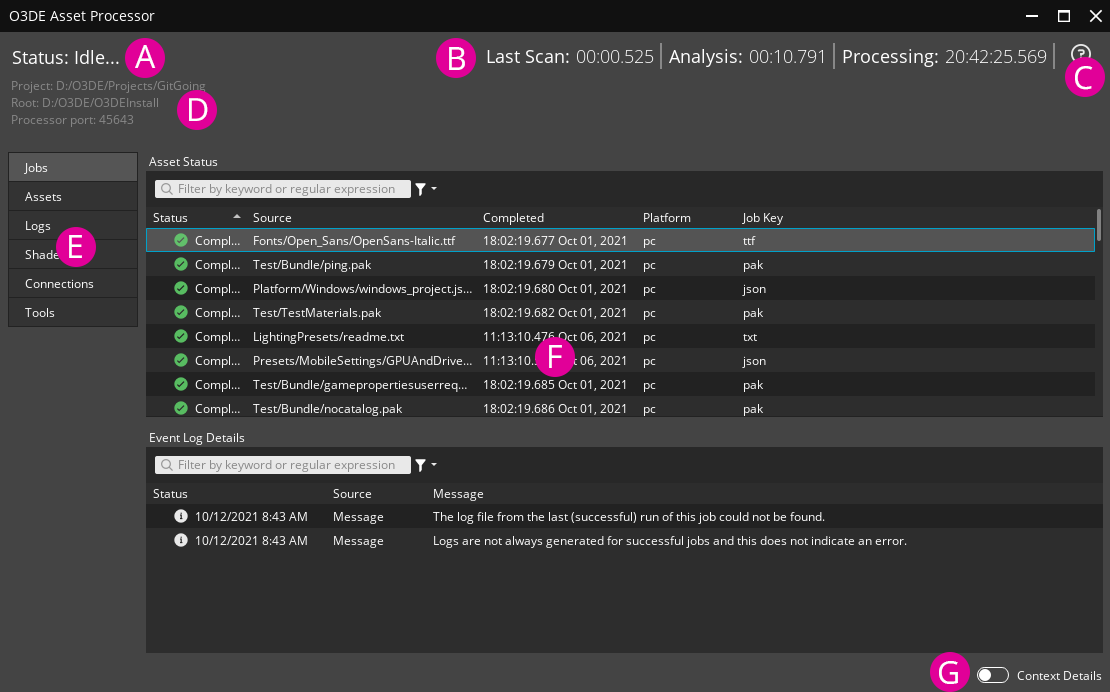
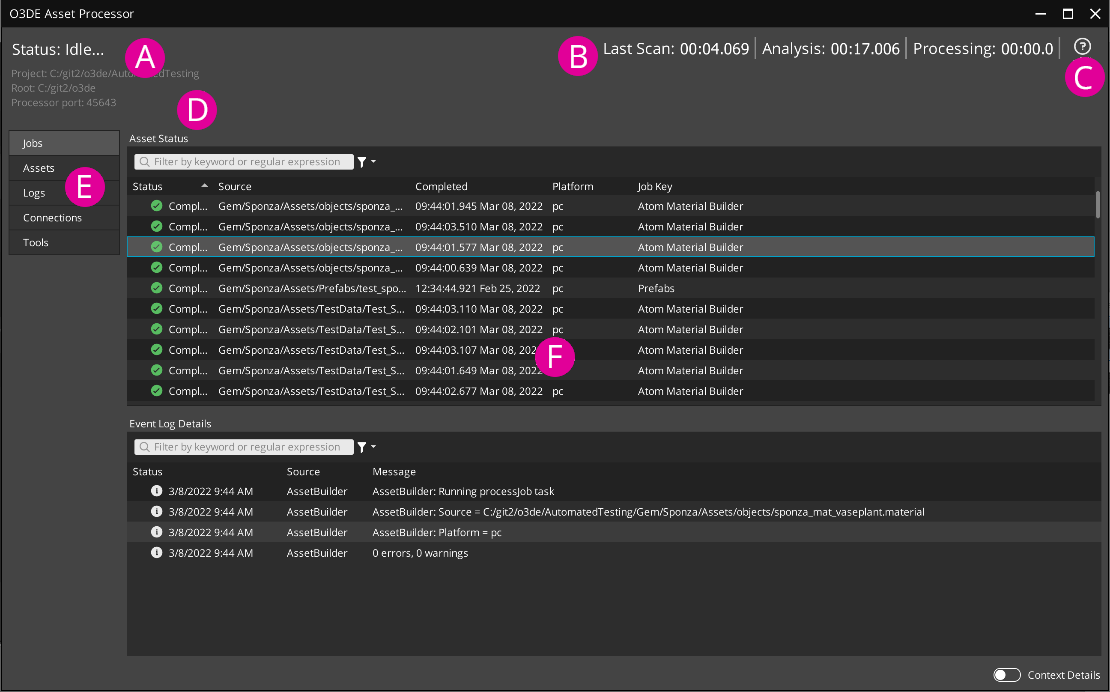
Updates to the Asset Processor Interface page. * Removed the G from the Asset Processor overview. This was presenting this information as if it was for the whole tool, but the Context Details selection is just for the Jobs tab. * Updated the Jobs screen shot to include the context details selector. 

Changed region(s): [[0.0, 0.0, 1.0, 0.8194], [0.827, 0.9408, 1.0, 1.0], [0.0, 0.9711, 0.0306, 1.0]]

diff --git a/content/docs/user-guide/assets/asset-processor/interface.md b/content/docs/user-guide/assets/asset-processor/interface.md
@@ -22,7 +22,6 @@ The Asset Processor UI has several tabs you can use to view the status of asset 
 * **D**: The project, engine root, and the port used by Asset Processor to communicate with other processes are displayed below the status line.
 * **E**:  The buttons on the left select the tab to display in the Asset Processor UI. Refer to [Asset Processor tabs](#asset-processor-tabs) below for more information.
 * **F**:  The information Asset Processer displays is dependent on the selected Asset Processor tab. Refer to [Asset Processor tabs](#asset-processor-tabs) below for more information.
-* **G**: Activate to display additional context details, if available.
 
 ## Asset Processor tabs
 
@@ -47,33 +46,44 @@ Jobs in the Asset Status list display the statuses below:
 * {{< icon "pending.svg" >}} **Pending** - The job has been created, but has not run.
 * {{< icon "processing.svg" >}} **Processing** - The job is in progress.
 * {{< icon "warning-yellow.svg" >}} **Completed - Warning** - The job has completed but has emitted a warning.
-* {{< icon "error.svg" >}} **Completed - Error** - The job has completed and has emitted an error.
-* {{< icon "valid.svg" >}} **Completed** - The job has completed successfully with no warnings or errors.
-* {{< icon "error.svg" >}} **Failed** - The job has failed and has emitted an error.
+* {{< icon "warning-yellow.svg" >}} **Completed - Error** - The job has completed and has emitted an error.
+* {{< icon "valid.svg" >}} **Completed** - The job has completed successfully with no warnings, errors, or failures.
+* {{< icon "error.svg" >}} **Failed** - The job has failed and has emitted a failure.
 
-It's possible for a job to emit a combination of warnings and errors.
+It's possible for a job to emit a combination of warnings, errors, and failures.
 
 Completed with warnings produces a valid product asset, but might have some data substituted. Suppose a job is processing a `.fbx` file that produces several mesh product assets, and that a `.assetinfo` sidecar file specifies to process the meshes with custom normals. If the meshes in the `.fbx` file do not have custom normals, the Asset Builder generates normals instead. Valid product assets are produced, but several warnings are emitted because custom normals could not be found for the mesh assets.
 
-Completed with errors produces a valid product asset, but has incomplete data. Errors happen when data required for the product asset is missing or cannot be produced. Using the example above, suppose the `.assetinfo` specifies tangents should be generated for the mesh product assets, but the Asset Builder fails to produce the tangents. The end result is a valid product asset that does not contain all the requested data.
+Completed with errors produces a product asset but it may not be valid for all use cases, such as having incomplete data. Errors happen when data required for the product asset is missing or cannot be produced. Using the example above, suppose the `.assetinfo` specifies tangents should be generated for the mesh product assets, but the Asset Builder fails to produce the tangents. The end result is a valid product asset that does not contain all the requested data.
 
-Failed with errors does not produce a product asset.
+Failed jobs do not produce a product asset.
+
+What is considered a log message, warning, error, and failure, and how the system handles these is up to each builder's author. Our guidance is:
+ * Print a log message for anything that will be useful as a bread crumb for tracking down problems later, for both the content creator or the builder author.
+ * Emit a warning if something is wrong but it can mostly be handled, and the output your builder can generate is reasonably close to what the content creator intended.
+ * Post an error if your builder encounters data it can't properly handle and you know the product asset you output won't be fully correct. When possible, this is prefered over a failure because the failure won't produce any product asset, so any references from other assets to this asset may break. For example, if a prefab references a mesh product asset from an FBX file, an update to the FBX causes the job to fail, then any edits to the prefab while this job is failing may lose the reference to the mesh.
+ * Post a failure if your builder encounters something it cannot happen and all processing should end, and the builder should not output anything. This is generally considered a last resort, and is most commonly seen when a builder crashes during processing.
 
 {{< note >}}
-The most common reason for failure is that the Asset Builder has crashed. When an Asset Builder crashes, Asset Processor logs the job failure with an error and continues processing assets from the jobs list. When Asset Processor is restarted, it attempts to reprocess any failed jobs. Alternatively, you can locate individual source assets in the Assets tab, **right-click** on the asset, and select **Reprocess File** to re-run the process job.
+The most common reason for failure is that the Asset Builder has crashed. When an Asset Builder crashes, Asset Processor logs the job failure with a failure and continues processing assets from the jobs list. When Asset Processor is restarted, it attempts to reprocess any failed jobs. If an asset has failed to process, we recommend you first examine why this failure occured, and inform your team, sharing any relevant artifacts such as log messages. Once you proceed to the next step, that information may be lost. Alternatively, you can locate individual source assets in the Assets tab, **right-click** on the asset, and select **Reprocess File** to re-run the process job.
 {{< /note >}}
 
-The circumstances that cause an Asset Builder to complete a job with warnings or errors, or fail with errors, are left to the implementation of the Asset Builder, but should follow the guidance above.
+The circumstances that cause an Asset Builder to complete a job with warnings, errors, or failures are left to the implementation of the Asset Builder, but should follow the guidance above.
 
 ### Filtering by keyword and status
 
 The Asset Status list can be filtered by entering keywords and regular expressions in the filter box. The regular expressions (regex) are standard `std::regex` in extended format. The `std::regex` rules apply.
 
-The example below searches for all files ending with .png. The asterisk (`*`) indicates any character 0 or more times.
+The example below searches for all files ending with .png. The asterisk (`*`) indicates any character 0 or more times. The period is escaped, because in a regex search `.` matches any non-newline character.
 
 ```
-*.png
+*\.png
 ```
+
+{{< note >}}
+It's easy to forget this is a regex based search. Searching for ".fbx" does not actually search for that exact string, it means search for any character followed by the characters fbx. ".FBX" would return results such as "MyFBXTexture.png", because it matches the given search condition, the '.' matches any character, including 'y' in this example.
+{{< /note >}}
+
 
 The example below uses regex to search for any files under an `Actors` subdirectory. The dot plus (`.+`) indicates any character 1 or more times.
 
@@ -96,7 +106,10 @@ You can perform actions on each row in the Asset Status table. **Right-click** o
 | Menu Item | Description |
 | - | - |
 | **Show in Asset Browser** | Highlights the asset in O3DE Editor’s Asset Browser, if O3DE Editor is open. |
+| **View Source Asset**  | Switches to the Asset Tab, and selects the Source Asset for this job. |
+| **View Product Asset...**  | A pop out menu showing all product assets created from this job. Selecting one will switch to the Asset Tab and select that Product Asset. |
 | **Open in Explorer** | Opens the asset in the system file browser. |
+| **Open**  | Attempts to open the Source Asset with your operating system's default interface for opening files of that type. |
 | **Copy**  | Copies the asset name. |
 | **Open log file** | Opens the most recent log file for the asset, if one exists. |
 | **Open folder with log file** | Opens the directory containing the log file for the asset. |
@@ -142,6 +155,8 @@ The Event Log Line Details table also features a context menu to copy details to
 
 In the Assets tab, the tabbed pane on the left displays either the **Source Assets** tree from the scan directories, or the **Product Assets** tree from the **Asset Cache**. You can browse either tree for specific assets, or use the search bar to find assets by name or ID. When an asset is selected, information about the asset is displayed on the right of the interface.
 
+The search in the Assets Tab is also a regex based search, like for the jobs tab. See the jobs section for details on regex searching.
+
 {{< note >}}
 The directory tree displayed in the tab is from the **Asset Database**, not the files on disk. It only displays assets that have been processed. Files on disk that are ignored by Asset Processer do not appear in the directory tree. 
 {{< /note >}}
@@ -161,12 +176,12 @@ When an asset is selected in the Source Assets list, information about the asset
 | Pane | Description |
 | - | - |
 | **Asset Information** | Detailed information about the selected asset including the name of the asset, the scan directory path, and the Universally Unique Identifier (UUID) associated with the asset. |
-| **Products** | The product assets that are produced from the source asset. |
-| **Outgoing Source Dependencies** | The list of source assets that require an output from this source asset. |
-| **Incoming Source Dependencies** | The list of source assets that must have completed their process jobs before this source asset can be processed. |
+| **Products** | The product assets that are produced from jobs that processed this source asset. |
+| **Outgoing Source Dependencies** | Any files that have been registered as a source dependency for any jobs that run on this source asset. |
+| **Incoming Source Dependencies** | The list of source assets that have one or more jobs that have marked this source asset as a source dependency, any modifications to this source asset will cause these jobs to run. |
 
 {{< note >}}
-Choose the {{< icon "open-in-internal-app.svg" >}} **Open** icon next to a product asset name to open that asset in the Product Assets tab.
+Choose the {{< icon "open-in-internal-app.svg" >}} **Go to** icon next to a product asset name to go to that asset in the Product Assets tab, or this icon next to a source asset name to go to that asset in the Source Assets tab.
 {{< /note >}}
 
 ### Product Assets
@@ -177,18 +192,11 @@ When an asset is selected in the Product Assets list, information about the asse
 
 | Pane | Description |
 | - | - |
-| **Asset Information** | Information for the product asset including the asset UUID, the last time the product was generated, the type of job that generated the asset, which platform the asset was produced for, and which source asset is the primary input for the product. |
-| **Outgoing Product Dependencies** | The list of product assets that depend on this product asset. |
-
-| **Outgoing Unmet Path Product Dependencies**<sup>1</sup> | The list of product assets that are hardcoded paths to be loaded by the O3DE runtime. |
-
-| **Incoming Product Dependencies** | The list of product assets that this product asset depends on. |
-
-| **Missing Product Dependencies** | Detect missing product dependencies. |
-
-{{< note >}}
-<sup>1</sup>Because these products aren’t necessarily generated by Asset Processor, they’re placed into a separate category of dependencies.
-{{< /note >}}
+| **Asset Information** | Information for the product asset including the asset ID, the last time the product was generated, the type of job that generated the asset, which platform the asset was produced for, and which source asset is the primary input for the product. |
+| **Outgoing Product Dependencies** | Dependencies that this asset has. This is the list of product assets that this asset references in some way. |
+| **Outgoing Unmet Path Product Dependencies** | Path based product dependencies that have not been resolved. In some cases these may be optional and expected, in other cases an unmet path product dependency could indicate a gap in your product dependency graph, which means your bundled release build may end up missing content if you do not resolve this gap. |
+| **Incoming Product Dependencies** | The list of product assets that reference this product asset as a product dependency. |
+| **Missing Product Dependencies** | A tool that examines the contents of this product asset, looks for references to other product assets, and will report any references that look like product dependencies that are not reported. See [Resolving Missing Assets](/docs/user-guide/packaging/asset-bundler/assets-resolving) for details. |
 
 ## Logs
 
@@ -198,10 +206,6 @@ The Logs tab displays logs for Asset Processor itself, not for process jobs. If 
 The Logs tab has a single pane with three default tabs that display **Debug**, **Messages**, or **Warnings/Errors Only**. You can also add custom tabs to display any combination of information.
 
 ![Asset Processor UI logs tab](/images/user-guide/assets/asset-processor/interface-logs.png)
-
-## Shaders
-
-This is a legacy mode that is not currently used by O3DE.
 
 ## Connections
 
